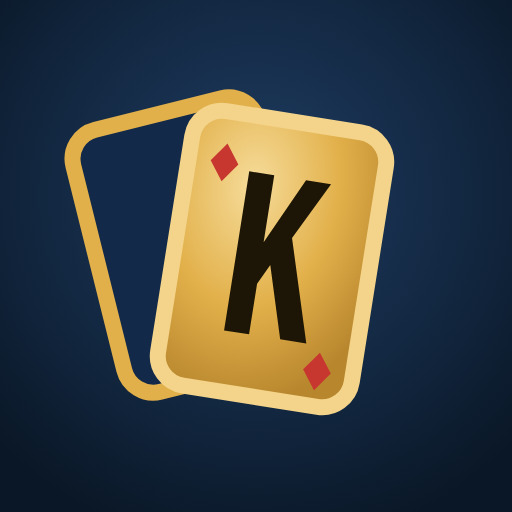
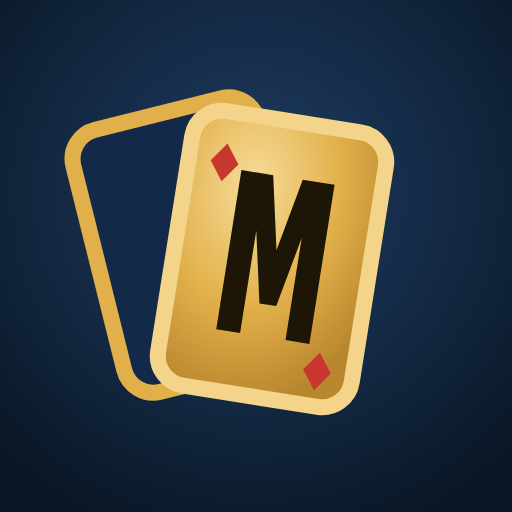
Masano : nouveau nom de l'appli et choix du jeu sur l'accueil (étape 4)
L'appli devient Masano et contient deux jeux, Kopo et Inter (8).

- logo Masano (la carte dorée avec un M) sur le splash, la bienvenue
  et l'accueil ; icônes, titre, manifeste et aperçu de lien
- la pièce affiche « M » (pièces communes aux deux jeux)
- sélecteur KOPO | INTER (8) sous les pièces, gardé sur le téléphone
  (clé kopo-jeu, reprise avec les autres données kopo-*)
- Inter (8) choisi : les textes des tuiles s'adaptent ; tant que sa
  table n'est pas prête, les modes affichent « bientôt » (sauf Rejoindre)

Rien ne change pour une partie de Kopo : la table garde le logo KOPO,
les clés de stockage ne changent pas, tous les tests passent.

Claude-Session: https://claude.ai/code/session_01F9tQQM4VkA1YCgaKJ3A1zN

Changed region(s): [[0.4062, 0.3125, 0.6562, 0.6875]]

diff --git a/index.html b/index.html
@@ -5,19 +5,19 @@
 <meta name="viewport" content="width=device-width, initial-scale=1, viewport-fit=cover">
 <meta name="theme-color" content="#10233a">
 <meta name="description" content="Le Kopo, jeu de cartes de 2 à 9 joueurs, entre amis ou en ligne.">
-<link rel="icon" href="icons/kopo-logo.svg" type="image/svg+xml">
+<link rel="icon" href="icons/masano-logo.svg" type="image/svg+xml">
 <link rel="icon" href="icons/favicon-32.png" sizes="32x32" type="image/png">
 <link rel="apple-touch-icon" href="icons/apple-touch-icon.png">
 <link rel="manifest" href="manifest.webmanifest">
 <meta property="og:type" content="website">
-<meta property="og:site_name" content="Kopo">
-<meta property="og:title" content="Kopo · jeu de cartes entre amis">
+<meta property="og:site_name" content="Masano">
+<meta property="og:title" content="Masano · Kopo et Inter (8), jeux de cartes entre amis">
 <meta property="og:description" content="De 2 à 9 joueurs, entre amis ou en ligne. Gratuit.">
 <meta property="og:url" content="https://rossy0243.github.io/kopo/">
 <meta property="og:image" content="https://rossy0243.github.io/kopo/icons/og-kopo.png">
 <meta property="og:image:width" content="1200"><meta property="og:image:height" content="630">
 <meta name="twitter:card" content="summary_large_image">
-<title>Kopo · multijoueur</title>
+<title>Masano · Kopo et Inter (8)</title>
 <link rel="preconnect" href="https://fonts.googleapis.com"><link rel="preconnect" href="https://fonts.gstatic.com" crossorigin>
 <link href="https://fonts.googleapis.com/css2?family=Bebas+Neue&family=Outfit:wght@400;500;600;700&display=swap" rel="stylesheet">
 <style>
@@ -396,6 +396,13 @@ body.accueil .app { max-width: none; min-height: 100vh; min-height: 100dvh; padd
 .hub { min-height: 100vh; min-height: 100dvh; display: flex; flex-direction: column; gap: 10px; padding: max(10px, env(safe-area-inset-top)) max(12px, env(safe-area-inset-right)) max(8px, env(safe-area-inset-bottom)) max(12px, env(safe-area-inset-left));
   background: radial-gradient(ellipse at 50% 55%, rgba(226,176,74,.12), transparent 60%); }
 .hub-haut { display: flex; align-items: center; gap: 12px; }
+/* Masano : choix du jeu sur l'accueil (Kopo ou Inter (8)) */
+.choix-jeu { display: grid; grid-template-columns: 1fr 1fr; gap: 4px; padding: 4px; border-radius: 16px; background: rgba(0,0,0,.28); border: 1px solid rgba(226,176,74,.35); }
+.choix-jeu button { display: flex; align-items: center; justify-content: center; gap: 8px; border: 0; border-radius: 12px; padding: 10px 6px; background: transparent; color: var(--muted); font-family: var(--display); font-size: 20px; letter-spacing: 1.5px; cursor: pointer; }
+.choix-jeu button i { font-style: normal; width: 22px; height: 30px; border-radius: 4px; display: grid; place-items: center; font-size: 16px; border: 2px solid currentColor; }
+.choix-jeu button[aria-pressed="true"] { background: linear-gradient(180deg, #f3d48a, #e2b04a); color: #1d1606; box-shadow: 0 3px 10px rgba(0,0,0,.35); }
+.choix-jeu button[aria-pressed="true"] i { background: #1d1606; color: #f3d48a; border-color: #1d1606; }
+@media (max-height: 500px) { .choix-jeu { padding: 3px; } .choix-jeu button { padding: 5px; font-size: 16px; } .choix-jeu button i { width: 16px; height: 22px; font-size: 12px; } }
 .profil { margin-left: auto; display: flex; align-items: center; gap: 8px; background: rgba(0,0,0,.3); border: 1px solid var(--line); border-radius: 99px; padding: 4px 14px 4px 4px; cursor: text; }
 .avatar { width: 40px; height: 40px; border-radius: 50%; display: grid; place-items: center; background: var(--brass); color: #1d1606; font-family: var(--display); font-size: 24px; flex: none; }
 .profil-champ { display: grid; line-height: 1.1; }
@@ -1014,9 +1021,9 @@ body.dos-ambassadeur { --dos-motif: radial-gradient(circle at 50% 50%, #e2b04a 0
   <!-- Première ouverture : se connecter avec Google ou jouer en invité -->
   <section class="bienvenue" id="bienvenue" hidden>
     <div class="bienvenue-haut">
-      <img class="bienvenue-marque" src="icons/kopo-logo.svg" alt="">
-      <div class="bienvenue-titre">KOPO</div>
-      <p class="bienvenue-sous">Jeu de cartes entre amis</p>
+      <img class="bienvenue-marque" src="icons/masano-logo.svg" alt="">
+      <div class="bienvenue-titre">MASANO</div>
+      <p class="bienvenue-sous">Kopo · Inter (8) · entre amis</p>
     </div>
     <div class="bienvenue-choix">
       <button class="btn-google" id="btnEntreeGoogle" hidden><svg viewBox="0 0 48 48" aria-hidden="true"><path fill="#EA4335" d="M24 9.5c3.5 0 6.6 1.2 9.1 3.6l6.8-6.8C35.8 2.4 30.3 0 24 0 14.6 0 6.6 5.4 2.7 13.3l7.9 6.1C12.5 13.6 17.8 9.5 24 9.5z"/><path fill="#4285F4" d="M46.5 24.5c0-1.6-.1-3.1-.4-4.5H24v9h12.7c-.6 3-2.3 5.5-4.8 7.2l7.7 6c4.5-4.2 6.9-10.3 6.9-17.7z"/><path fill="#FBBC05" d="M10.6 28.6A14.6 14.6 0 0 1 9.5 24c0-1.6.3-3.2.8-4.6l-7.9-6.1A24 24 0 0 0 0 24c0 3.9.9 7.5 2.6 10.7l8-6.1z"/><path fill="#34A853" d="M24 48c6.5 0 11.9-2.1 15.9-5.8l-7.7-6c-2.2 1.5-5 2.3-8.2 2.3-6.2 0-11.5-4.2-13.4-9.9l-8 6.1C6.6 42.6 14.6 48 24 48z"/></svg>Continuer avec Google</button>
@@ -1029,12 +1036,16 @@ body.dos-ambassadeur { --dos-motif: radial-gradient(circle at 50% 50%, #e2b04a 0
   </section>
   <section class="hub" id="ecranAccueil" hidden>
     <div class="hub-haut">
-      <div class="logo"><img class="marque" src="icons/kopo-logo.svg" alt="">KOPO</div>
-      <button class="bourse" id="btnBourse" title="Tes pièces d'essai"><span class="piece" aria-hidden="true">K</span><span class="bourse-txt"><b id="solde">500</b><small>pièces d'essai</small></span></button>
+      <div class="logo"><img class="marque" src="icons/masano-logo.svg" alt="">MASANO</div>
+      <button class="bourse" id="btnBourse" title="Tes pièces d'essai"><span class="piece" aria-hidden="true">M</span><span class="bourse-txt"><b id="solde">500</b><small>pièces d'essai</small></span></button>
       <label class="profil" id="profil" title="Ton pseudo">
         <span class="avatar" id="avatar"><b id="avatarLettre">?</b><i class="niveau-pastille" id="niveauPastille" hidden></i></span>
         <span class="profil-champ"><small>Ton pseudo</small><input id="pseudo" maxlength="16" autocomplete="nickname" placeholder="Ex. As_de_Pique"><span class="xp-mini" id="xpMini" hidden><span></span></span></span>
       </label>
+    </div>
+    <div class="choix-jeu" id="choixJeu" role="group" aria-label="Jeu">
+      <button type="button" data-jeu="kopo" aria-pressed="true"><i aria-hidden="true">K</i>KOPO</button>
+      <button type="button" data-jeu="inter8" aria-pressed="false"><i aria-hidden="true">8</i>INTER (8)</button>
     </div>
     <div class="modes" id="modes">
       <button class="mode mode-creer" data-coin="♠" id="btnCreer"><span class="mode-icone"><svg class="ico"><use href="#i-creer"/></svg></span><b>Créer une partie</b><small>Entre amis, de 2 à 9</small></button>
@@ -1178,10 +1189,10 @@ body.dos-ambassadeur { --dos-motif: radial-gradient(circle at 50% 50%, #e2b04a 0
 </div>
 
 <div class="splash" id="splash" aria-hidden="true">
-  <img class="splash-marque" src="icons/kopo-logo.svg" alt="">
-  <div class="splash-logo">KOPO</div>
+  <img class="splash-marque" src="icons/masano-logo.svg" alt="">
+  <div class="splash-logo">MASANO</div>
   <div class="splash-couleurs"><span>♠</span><span>♥</span><span>♦</span><span>♣</span></div>
-  <div class="splash-sous">Jeu de cartes entre amis</div>
+  <div class="splash-sous">Kopo · Inter (8) · entre amis</div>
   <div class="splash-charge"><div class="splash-barre"><i id="splashBarre"></i></div><div class="splash-etat" id="splashEtat">Chargement…</div><div class="splash-passer">Touche l'écran pour passer</div></div>
 </div>
 <script>
@@ -5195,6 +5206,8 @@ var qrcode = function() {
   const LETTRES = 'ABCDEFGHJKMNPQRSTUVWXYZ';
   const LOCAL = new URLSearchParams(location.search).has('local'); // test sur un seul appareil (plusieurs onglets)
 
+  const PIECE = 'M'; // symbole des pièces de Masano (communes à tous les jeux)
+
   // ------------------------------------------------------------------ stockage
   const stock = {
     lire(k) { try { return JSON.parse(localStorage.getItem(k)); } catch (e) { return null; } },
@@ -5259,7 +5272,7 @@ var qrcode = function() {
   // Version de l'application, affichée dans Paramètres. À augmenter quand le serveur exige la nouvelle page
   // (« Version minimale » du tableau de bord).
   const VERSION = '1.1';
-  const BUILD = '22c67b0dcec1'; // empreinte de index.html, posée par build.js (sert à voir qu'une nouvelle version est en ligne)
+  const BUILD = '953a5f269921'; // empreinte de index.html, posée par build.js (sert à voir qu'une nouvelle version est en ligne)
   const PREFS_DEFAUT = { vibrations: true, animations: 'normales', tri: 'couleur', confirmerToutPoser: false, quatreCouleurs: false, sonAutresCoupe: false, effetsSonores: true, musique: false };
   const prefs = Object.assign({}, PREFS_DEFAUT, stock.lire('kopo-prefs') || {});
   // Retour de la connexion Google (Supabase) : le jeton arrive dans l'adresse (#access_token=…).
@@ -6636,7 +6649,7 @@ var qrcode = function() {
   }
 
   function icone(id) { const t = document.createElement('template'); t.innerHTML = `<svg class="ico" aria-hidden="true"><use href="#${id}"/></svg>`; return t.content.firstChild; }
-  const pieceEl = () => el('span', 'piece', 'K');
+  const pieceEl = () => el('span', 'piece', PIECE);
   // Une barre qui se remplit de a à b (fractions), après un délai.
   function remplir(barre, a, b, delai, duree = 700) {
     barre.style.width = (b * 100) + '%';
@@ -7073,7 +7086,7 @@ var qrcode = function() {
     z.style.setProperty('--div', couleurDiv(r.meilleure));
     const bl = el('div', 'ligue-blason', (NOMS_DIVISIONS[r.meilleure] || '?')[0]);
     z.append(el('small', 'muted', `Saison ${r.saison} : ${r.nom} terminée`), bl, el('div', 'titre', r.titre), el('div', null, r.rang ? `Classement final : ${r.rang}e` : ''));
-    if (r.pieces) { const g = el('div', 'gain'); g.style.cssText = 'display:flex;align-items:center;gap:8px'; g.append('+' + r.pieces); g.append(el('span', 'piece', 'K')); z.append(g); }
+    if (r.pieces) { const g = el('div', 'gain'); g.style.cssText = 'display:flex;align-items:center;gap:8px'; g.append('+' + r.pieces); g.append(el('span', 'piece', PIECE)); z.append(g); }
     z.append(el('small', 'muted', 'Une nouvelle saison commence : tu repars un peu plus bas. À toi de remonter !'));
     if (!sansAnim) bl.animate([{ transform: 'scale(.3) rotate(-20deg)', opacity: 0 }, { transform: 'scale(1.15)', opacity: 1, offset: .6 }, { transform: 'none' }], { duration: 800, easing: 'ease-out' });
     const ok = el('button', 'btn principal large', 'Super !');
@@ -8788,13 +8801,13 @@ var qrcode = function() {
         if (!sansAnim) carte.animate([{ transform: 'rotateY(90deg) scale(.4)', opacity: 0 }, { transform: 'rotateY(0) scale(1.15)', opacity: 1, offset: .6 }, { transform: 'none' }], { duration: 800, easing: 'ease-out' });
         corps.append(el('h2', null, 'Joker de série'), el('div', null, 'Hier, tu n\'es pas venu : ta série continue quand même.'));
       } else corps.append(el('h2', null, 'Bonus du jour'));
-      const piece = el('span', 'piece', 'K');
+      const piece = el('span', 'piece', PIECE);
       corps.append(piece, el('div', 'gain', '+' + b.gain), el('div', null, 'Jour ' + serie + ' d\'affilée · reviens demain pour +' + b.prochain), barres);
     } else {
       const sansCompte = MODE_SERVEUR && !compteEnLigne();
       const ligne = sansCompte ? 'Choisis ton pseudo et joue : ta bourse s\'ouvre avec un cadeau de bienvenue.'
         : (info && info.jour !== new Date().toISOString().slice(0, 10) ? 'Série de ' : 'Bonus du jour déjà pris · série de ') + serie + ' jour' + (serie > 1 ? 's' : '');
-      corps.append(el('h2', null, 'Tes pièces'), el('span', 'piece', 'K'), el('div', 'gain', formatPieces(soldeAffiche())), el('div', null, ligne), barres);
+      corps.append(el('h2', null, 'Tes pièces'), el('span', 'piece', PIECE), el('div', 'gain', formatPieces(soldeAffiche())), el('div', null, ligne), barres);
     }
     corps.append(joker);
     if (!MODE_SERVEUR) corps.append(el('div', 'note-essai', 'Pièces d\'essai, remises à zéro au lancement officiel.'));
@@ -9029,6 +9042,33 @@ var qrcode = function() {
     ouvrirFenetre([el('h2', null, 'Règles'), $('modeleRegles').content.cloneNode(true), ok, tuto, ...extra]);
   }
   $('btnRegles').onclick = montrerRegles;
+
+  // ------------------------------------------------------------------ Masano : choix du jeu
+  // L'accueil propose Kopo ou Inter (8). Le choix est gardé sur le téléphone. Tant que la table
+  // d'Inter (8) n'est pas prête dans l'appli, ses modes affichent « bientôt » (sauf Rejoindre).
+  const JEUX = ['kopo', 'inter8'];
+  const textesModes = {
+    kopo: { btnCreer: 'Entre amis, de 2 à 9', btnModeRobots: 'Partie rapide, seul' },
+    inter8: { btnCreer: 'Entre amis, de 2 à 8 · simple ou délire', btnModeRobots: 'Pour apprendre Inter (8)' },
+  };
+  const jeuChoisi = () => (JEUX.includes(stock.lire('kopo-jeu')) ? stock.lire('kopo-jeu') : 'kopo');
+  function majChoixJeu() {
+    const jeu = jeuChoisi();
+    $('choixJeu').querySelectorAll('button').forEach((b) => b.setAttribute('aria-pressed', String(b.dataset.jeu === jeu)));
+    for (const [id, t] of Object.entries(textesModes[jeu])) { const s = $(id) && $(id).querySelector('small'); if (s) s.textContent = t; }
+    const r = $('btnRegles'); if (r && r.lastChild) r.lastChild.textContent = jeu === 'inter8' ? 'Règles Inter' : 'Règles';
+  }
+  $('choixJeu').querySelectorAll('button').forEach((b) => (b.onclick = () => { stock.ecrire('kopo-jeu', b.dataset.jeu); majChoixJeu(); }));
+  const interBientot = (e) => {
+    if (jeuChoisi() !== 'inter8') return;
+    const cible = e.target.closest('#modes .mode, #btnRegles');
+    if (!cible || cible.id === 'btnModeRejoindre') return;
+    e.preventDefault(); e.stopImmediatePropagation();
+    toast("Inter (8) arrive très bientôt : sa table est en préparation. En attendant, joue à Kopo !");
+  };
+  $('modes').addEventListener('click', interBientot, true);
+  $('btnRegles').addEventListener('click', interBientot, true);
+  majChoixJeu();
   $('btnMissions').onclick = ouvrirMissions;
   $('btnPleinEcranAccueil').onclick = pleinEcran;
   // Paramètres (fil version 1) : visible dès que window.ouvrirParametres existe.

diff --git a/src/source.html b/src/source.html
@@ -5,19 +5,19 @@
 <meta name="viewport" content="width=device-width, initial-scale=1, viewport-fit=cover">
 <meta name="theme-color" content="#10233a">
 <meta name="description" content="Le Kopo, jeu de cartes de 2 à 9 joueurs, entre amis ou en ligne.">
-<link rel="icon" href="icons/kopo-logo.svg" type="image/svg+xml">
+<link rel="icon" href="icons/masano-logo.svg" type="image/svg+xml">
 <link rel="icon" href="icons/favicon-32.png" sizes="32x32" type="image/png">
 <link rel="apple-touch-icon" href="icons/apple-touch-icon.png">
 <link rel="manifest" href="manifest.webmanifest">
 <meta property="og:type" content="website">
-<meta property="og:site_name" content="Kopo">
-<meta property="og:title" content="Kopo · jeu de cartes entre amis">
+<meta property="og:site_name" content="Masano">
+<meta property="og:title" content="Masano · Kopo et Inter (8), jeux de cartes entre amis">
 <meta property="og:description" content="De 2 à 9 joueurs, entre amis ou en ligne. Gratuit.">
 <meta property="og:url" content="__KOPO_SITE__">
 <meta property="og:image" content="__KOPO_SITE__icons/og-kopo.png">
 <meta property="og:image:width" content="1200"><meta property="og:image:height" content="630">
 <meta name="twitter:card" content="summary_large_image">
-<title>Kopo · multijoueur</title>
+<title>Masano · Kopo et Inter (8)</title>
 <link rel="preconnect" href="https://fonts.googleapis.com"><link rel="preconnect" href="https://fonts.gstatic.com" crossorigin>
 <link href="https://fonts.googleapis.com/css2?family=Bebas+Neue&family=Outfit:wght@400;500;600;700&display=swap" rel="stylesheet">
 <style>
@@ -396,6 +396,13 @@ body.accueil .app { max-width: none; min-height: 100vh; min-height: 100dvh; padd
 .hub { min-height: 100vh; min-height: 100dvh; display: flex; flex-direction: column; gap: 10px; padding: max(10px, env(safe-area-inset-top)) max(12px, env(safe-area-inset-right)) max(8px, env(safe-area-inset-bottom)) max(12px, env(safe-area-inset-left));
   background: radial-gradient(ellipse at 50% 55%, rgba(226,176,74,.12), transparent 60%); }
 .hub-haut { display: flex; align-items: center; gap: 12px; }
+/* Masano : choix du jeu sur l'accueil (Kopo ou Inter (8)) */
+.choix-jeu { display: grid; grid-template-columns: 1fr 1fr; gap: 4px; padding: 4px; border-radius: 16px; background: rgba(0,0,0,.28); border: 1px solid rgba(226,176,74,.35); }
+.choix-jeu button { display: flex; align-items: center; justify-content: center; gap: 8px; border: 0; border-radius: 12px; padding: 10px 6px; background: transparent; color: var(--muted); font-family: var(--display); font-size: 20px; letter-spacing: 1.5px; cursor: pointer; }
+.choix-jeu button i { font-style: normal; width: 22px; height: 30px; border-radius: 4px; display: grid; place-items: center; font-size: 16px; border: 2px solid currentColor; }
+.choix-jeu button[aria-pressed="true"] { background: linear-gradient(180deg, #f3d48a, #e2b04a); color: #1d1606; box-shadow: 0 3px 10px rgba(0,0,0,.35); }
+.choix-jeu button[aria-pressed="true"] i { background: #1d1606; color: #f3d48a; border-color: #1d1606; }
+@media (max-height: 500px) { .choix-jeu { padding: 3px; } .choix-jeu button { padding: 5px; font-size: 16px; } .choix-jeu button i { width: 16px; height: 22px; font-size: 12px; } }
 .profil { margin-left: auto; display: flex; align-items: center; gap: 8px; background: rgba(0,0,0,.3); border: 1px solid var(--line); border-radius: 99px; padding: 4px 14px 4px 4px; cursor: text; }
 .avatar { width: 40px; height: 40px; border-radius: 50%; display: grid; place-items: center; background: var(--brass); color: #1d1606; font-family: var(--display); font-size: 24px; flex: none; }
 .profil-champ { display: grid; line-height: 1.1; }
@@ -1014,9 +1021,9 @@ body.dos-ambassadeur { --dos-motif: radial-gradient(circle at 50% 50%, #e2b04a 0
   <!-- Première ouverture : se connecter avec Google ou jouer en invité -->
   <section class="bienvenue" id="bienvenue" hidden>
     <div class="bienvenue-haut">
-      <img class="bienvenue-marque" src="icons/kopo-logo.svg" alt="">
-      <div class="bienvenue-titre">KOPO</div>
-      <p class="bienvenue-sous">Jeu de cartes entre amis</p>
+      <img class="bienvenue-marque" src="icons/masano-logo.svg" alt="">
+      <div class="bienvenue-titre">MASANO</div>
+      <p class="bienvenue-sous">Kopo · Inter (8) · entre amis</p>
     </div>
     <div class="bienvenue-choix">
       <button class="btn-google" id="btnEntreeGoogle" hidden><svg viewBox="0 0 48 48" aria-hidden="true"><path fill="#EA4335" d="M24 9.5c3.5 0 6.6 1.2 9.1 3.6l6.8-6.8C35.8 2.4 30.3 0 24 0 14.6 0 6.6 5.4 2.7 13.3l7.9 6.1C12.5 13.6 17.8 9.5 24 9.5z"/><path fill="#4285F4" d="M46.5 24.5c0-1.6-.1-3.1-.4-4.5H24v9h12.7c-.6 3-2.3 5.5-4.8 7.2l7.7 6c4.5-4.2 6.9-10.3 6.9-17.7z"/><path fill="#FBBC05" d="M10.6 28.6A14.6 14.6 0 0 1 9.5 24c0-1.6.3-3.2.8-4.6l-7.9-6.1A24 24 0 0 0 0 24c0 3.9.9 7.5 2.6 10.7l8-6.1z"/><path fill="#34A853" d="M24 48c6.5 0 11.9-2.1 15.9-5.8l-7.7-6c-2.2 1.5-5 2.3-8.2 2.3-6.2 0-11.5-4.2-13.4-9.9l-8 6.1C6.6 42.6 14.6 48 24 48z"/></svg>Continuer avec Google</button>
@@ -1029,12 +1036,16 @@ body.dos-ambassadeur { --dos-motif: radial-gradient(circle at 50% 50%, #e2b04a 0
   </section>
   <section class="hub" id="ecranAccueil" hidden>
     <div class="hub-haut">
-      <div class="logo"><img class="marque" src="icons/kopo-logo.svg" alt="">KOPO</div>
-      <button class="bourse" id="btnBourse" title="Tes pièces d'essai"><span class="piece" aria-hidden="true">K</span><span class="bourse-txt"><b id="solde">500</b><small>pièces d'essai</small></span></button>
+      <div class="logo"><img class="marque" src="icons/masano-logo.svg" alt="">MASANO</div>
+      <button class="bourse" id="btnBourse" title="Tes pièces d'essai"><span class="piece" aria-hidden="true">M</span><span class="bourse-txt"><b id="solde">500</b><small>pièces d'essai</small></span></button>
       <label class="profil" id="profil" title="Ton pseudo">
         <span class="avatar" id="avatar"><b id="avatarLettre">?</b><i class="niveau-pastille" id="niveauPastille" hidden></i></span>
         <span class="profil-champ"><small>Ton pseudo</small><input id="pseudo" maxlength="16" autocomplete="nickname" placeholder="Ex. As_de_Pique"><span class="xp-mini" id="xpMini" hidden><span></span></span></span>
       </label>
+    </div>
+    <div class="choix-jeu" id="choixJeu" role="group" aria-label="Jeu">
+      <button type="button" data-jeu="kopo" aria-pressed="true"><i aria-hidden="true">K</i>KOPO</button>
+      <button type="button" data-jeu="inter8" aria-pressed="false"><i aria-hidden="true">8</i>INTER (8)</button>
     </div>
     <div class="modes" id="modes">
       <button class="mode mode-creer" data-coin="♠" id="btnCreer"><span class="mode-icone"><svg class="ico"><use href="#i-creer"/></svg></span><b>Créer une partie</b><small>Entre amis, de 2 à 9</small></button>
@@ -1178,10 +1189,10 @@ body.dos-ambassadeur { --dos-motif: radial-gradient(circle at 50% 50%, #e2b04a 0
 </div>
 
 <div class="splash" id="splash" aria-hidden="true">
-  <img class="splash-marque" src="icons/kopo-logo.svg" alt="">
-  <div class="splash-logo">KOPO</div>
+  <img class="splash-marque" src="icons/masano-logo.svg" alt="">
+  <div class="splash-logo">MASANO</div>
   <div class="splash-couleurs"><span>♠</span><span>♥</span><span>♦</span><span>♣</span></div>
-  <div class="splash-sous">Jeu de cartes entre amis</div>
+  <div class="splash-sous">Kopo · Inter (8) · entre amis</div>
   <div class="splash-charge"><div class="splash-barre"><i id="splashBarre"></i></div><div class="splash-etat" id="splashEtat">Chargement…</div><div class="splash-passer">Touche l'écran pour passer</div></div>
 </div>
 <script>
@@ -1274,6 +1285,8 @@ body.dos-ambassadeur { --dos-motif: radial-gradient(circle at 50% 50%, #e2b04a 0
   const PREFIXE = 'kopo-mj-v1-';
   const LETTRES = 'ABCDEFGHJKMNPQRSTUVWXYZ';
   const LOCAL = new URLSearchParams(location.search).has('local'); // test sur un seul appareil (plusieurs onglets)
+
+  const PIECE = 'M'; // symbole des pièces de Masano (communes à tous les jeux)
 
   // ------------------------------------------------------------------ stockage
   const stock = {
@@ -2716,7 +2729,7 @@ body.dos-ambassadeur { --dos-motif: radial-gradient(circle at 50% 50%, #e2b04a 0
   }
 
   function icone(id) { const t = document.createElement('template'); t.innerHTML = `<svg class="ico" aria-hidden="true"><use href="#${id}"/></svg>`; return t.content.firstChild; }
-  const pieceEl = () => el('span', 'piece', 'K');
+  const pieceEl = () => el('span', 'piece', PIECE);
   // Une barre qui se remplit de a à b (fractions), après un délai.
   function remplir(barre, a, b, delai, duree = 700) {
     barre.style.width = (b * 100) + '%';
@@ -3153,7 +3166,7 @@ body.dos-ambassadeur { --dos-motif: radial-gradient(circle at 50% 50%, #e2b04a 0
     z.style.setProperty('--div', couleurDiv(r.meilleure));
     const bl = el('div', 'ligue-blason', (NOMS_DIVISIONS[r.meilleure] || '?')[0]);
     z.append(el('small', 'muted', `Saison ${r.saison} : ${r.nom} terminée`), bl, el('div', 'titre', r.titre), el('div', null, r.rang ? `Classement final : ${r.rang}e` : ''));
-    if (r.pieces) { const g = el('div', 'gain'); g.style.cssText = 'display:flex;align-items:center;gap:8px'; g.append('+' + r.pieces); g.append(el('span', 'piece', 'K')); z.append(g); }
+    if (r.pieces) { const g = el('div', 'gain'); g.style.cssText = 'display:flex;align-items:center;gap:8px'; g.append('+' + r.pieces); g.append(el('span', 'piece', PIECE)); z.append(g); }
     z.append(el('small', 'muted', 'Une nouvelle saison commence : tu repars un peu plus bas. À toi de remonter !'));
     if (!sansAnim) bl.animate([{ transform: 'scale(.3) rotate(-20deg)', opacity: 0 }, { transform: 'scale(1.15)', opacity: 1, offset: .6 }, { transform: 'none' }], { duration: 800, easing: 'ease-out' });
     const ok = el('button', 'btn principal large', 'Super !');
@@ -4868,13 +4881,13 @@ body.dos-ambassadeur { --dos-motif: radial-gradient(circle at 50% 50%, #e2b04a 0
         if (!sansAnim) carte.animate([{ transform: 'rotateY(90deg) scale(.4)', opacity: 0 }, { transform: 'rotateY(0) scale(1.15)', opacity: 1, offset: .6 }, { transform: 'none' }], { duration: 800, easing: 'ease-out' });
         corps.append(el('h2', null, 'Joker de série'), el('div', null, 'Hier, tu n\'es pas venu : ta série continue quand même.'));
       } else corps.append(el('h2', null, 'Bonus du jour'));
-      const piece = el('span', 'piece', 'K');
+      const piece = el('span', 'piece', PIECE);
       corps.append(piece, el('div', 'gain', '+' + b.gain), el('div', null, 'Jour ' + serie + ' d\'affilée · reviens demain pour +' + b.prochain), barres);
     } else {
       const sansCompte = MODE_SERVEUR && !compteEnLigne();
       const ligne = sansCompte ? 'Choisis ton pseudo et joue : ta bourse s\'ouvre avec un cadeau de bienvenue.'
         : (info && info.jour !== new Date().toISOString().slice(0, 10) ? 'Série de ' : 'Bonus du jour déjà pris · série de ') + serie + ' jour' + (serie > 1 ? 's' : '');
-      corps.append(el('h2', null, 'Tes pièces'), el('span', 'piece', 'K'), el('div', 'gain', formatPieces(soldeAffiche())), el('div', null, ligne), barres);
+      corps.append(el('h2', null, 'Tes pièces'), el('span', 'piece', PIECE), el('div', 'gain', formatPieces(soldeAffiche())), el('div', null, ligne), barres);
     }
     corps.append(joker);
     if (!MODE_SERVEUR) corps.append(el('div', 'note-essai', 'Pièces d\'essai, remises à zéro au lancement officiel.'));
@@ -5109,6 +5122,33 @@ body.dos-ambassadeur { --dos-motif: radial-gradient(circle at 50% 50%, #e2b04a 0
     ouvrirFenetre([el('h2', null, 'Règles'), $('modeleRegles').content.cloneNode(true), ok, tuto, ...extra]);
   }
   $('btnRegles').onclick = montrerRegles;
+
+  // ------------------------------------------------------------------ Masano : choix du jeu
+  // L'accueil propose Kopo ou Inter (8). Le choix est gardé sur le téléphone. Tant que la table
+  // d'Inter (8) n'est pas prête dans l'appli, ses modes affichent « bientôt » (sauf Rejoindre).
+  const JEUX = ['kopo', 'inter8'];
+  const textesModes = {
+    kopo: { btnCreer: 'Entre amis, de 2 à 9', btnModeRobots: 'Partie rapide, seul' },
+    inter8: { btnCreer: 'Entre amis, de 2 à 8 · simple ou délire', btnModeRobots: 'Pour apprendre Inter (8)' },
+  };
+  const jeuChoisi = () => (JEUX.includes(stock.lire('kopo-jeu')) ? stock.lire('kopo-jeu') : 'kopo');
+  function majChoixJeu() {
+    const jeu = jeuChoisi();
+    $('choixJeu').querySelectorAll('button').forEach((b) => b.setAttribute('aria-pressed', String(b.dataset.jeu === jeu)));
+    for (const [id, t] of Object.entries(textesModes[jeu])) { const s = $(id) && $(id).querySelector('small'); if (s) s.textContent = t; }
+    const r = $('btnRegles'); if (r && r.lastChild) r.lastChild.textContent = jeu === 'inter8' ? 'Règles Inter' : 'Règles';
+  }
+  $('choixJeu').querySelectorAll('button').forEach((b) => (b.onclick = () => { stock.ecrire('kopo-jeu', b.dataset.jeu); majChoixJeu(); }));
+  const interBientot = (e) => {
+    if (jeuChoisi() !== 'inter8') return;
+    const cible = e.target.closest('#modes .mode, #btnRegles');
+    if (!cible || cible.id === 'btnModeRejoindre') return;
+    e.preventDefault(); e.stopImmediatePropagation();
+    toast("Inter (8) arrive très bientôt : sa table est en préparation. En attendant, joue à Kopo !");
+  };
+  $('modes').addEventListener('click', interBientot, true);
+  $('btnRegles').addEventListener('click', interBientot, true);
+  majChoixJeu();
   $('btnMissions').onclick = ouvrirMissions;
   $('btnPleinEcranAccueil').onclick = pleinEcran;
   // Paramètres (fil version 1) : visible dès que window.ouvrirParametres existe.

diff --git a/sw.js b/sw.js
@@ -1,4 +1,4 @@
-// Service worker du Kopo : il rend le jeu installable (« Installer le jeu », icône sur l'écran d'accueil).
+// Service worker de Masano (Kopo et Inter (8)) : il rend le jeu installable (« Installer le jeu », icône sur l'écran d'accueil).
 // Pas de hors ligne pour l'instant : rien n'est mis en cache, la page vient toujours du réseau
 // (la vérification « Nouvelle version disponible » continue de marcher comme avant).
 self.addEventListener('install', () => self.skipWaiting());
